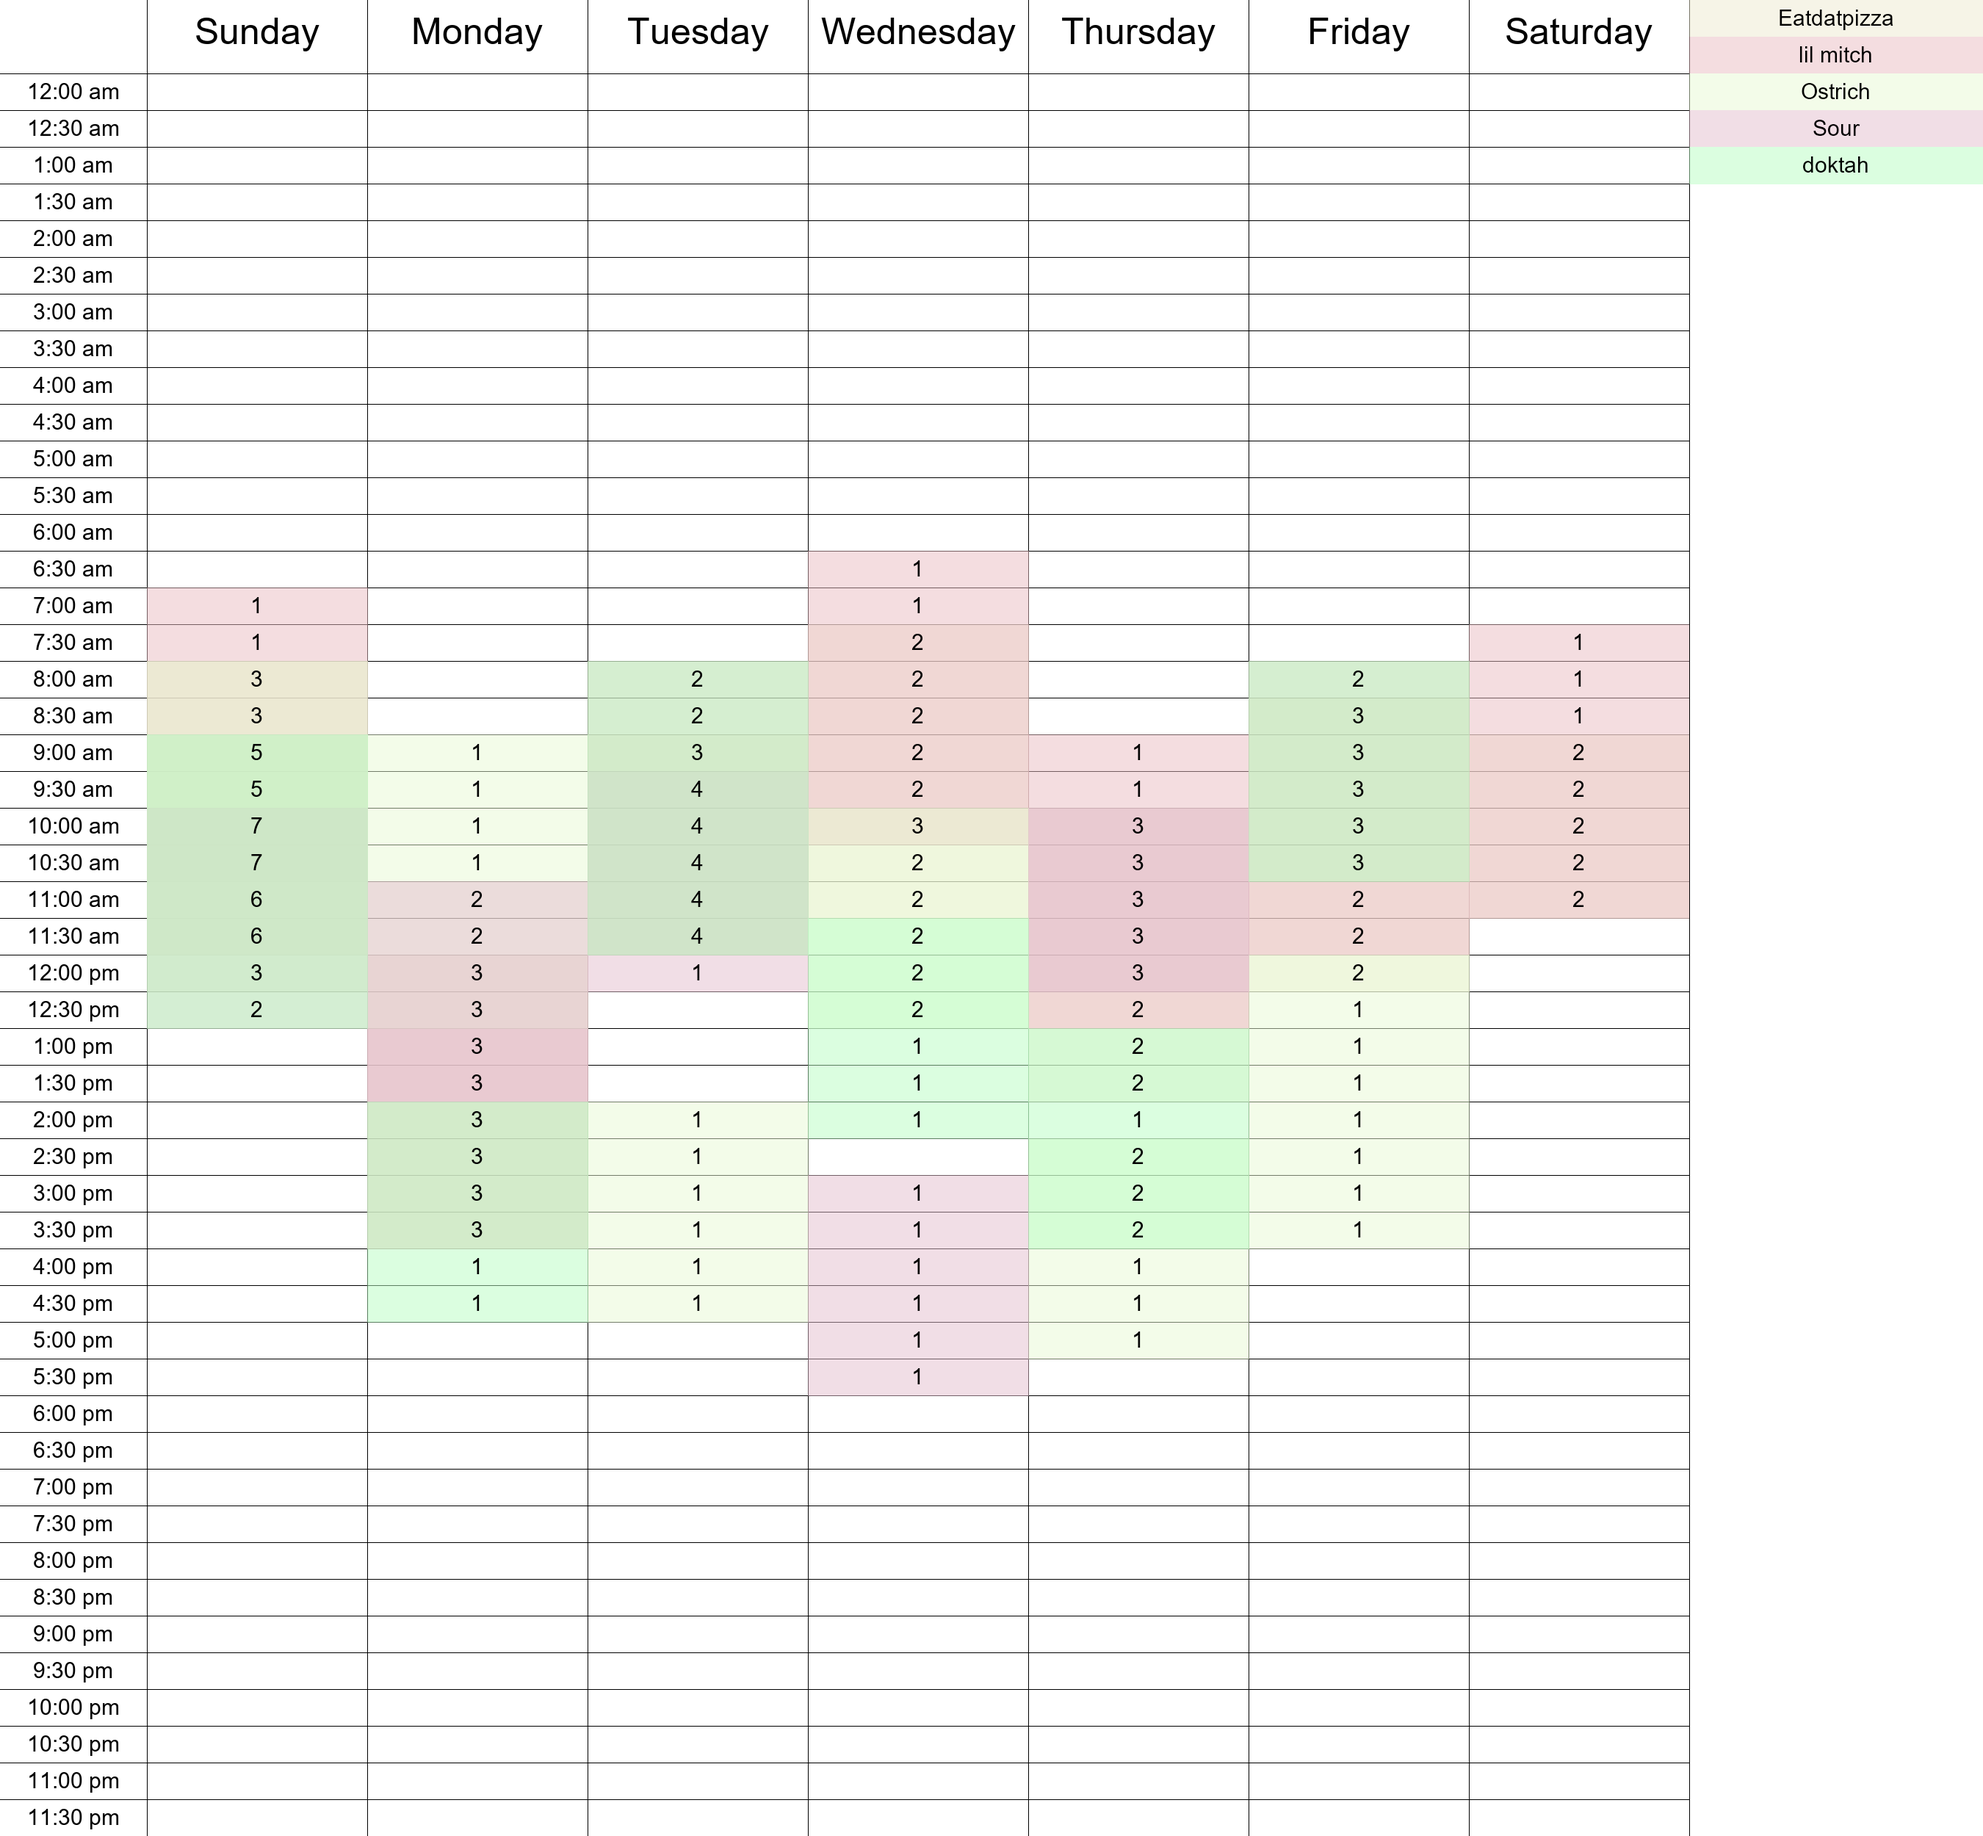
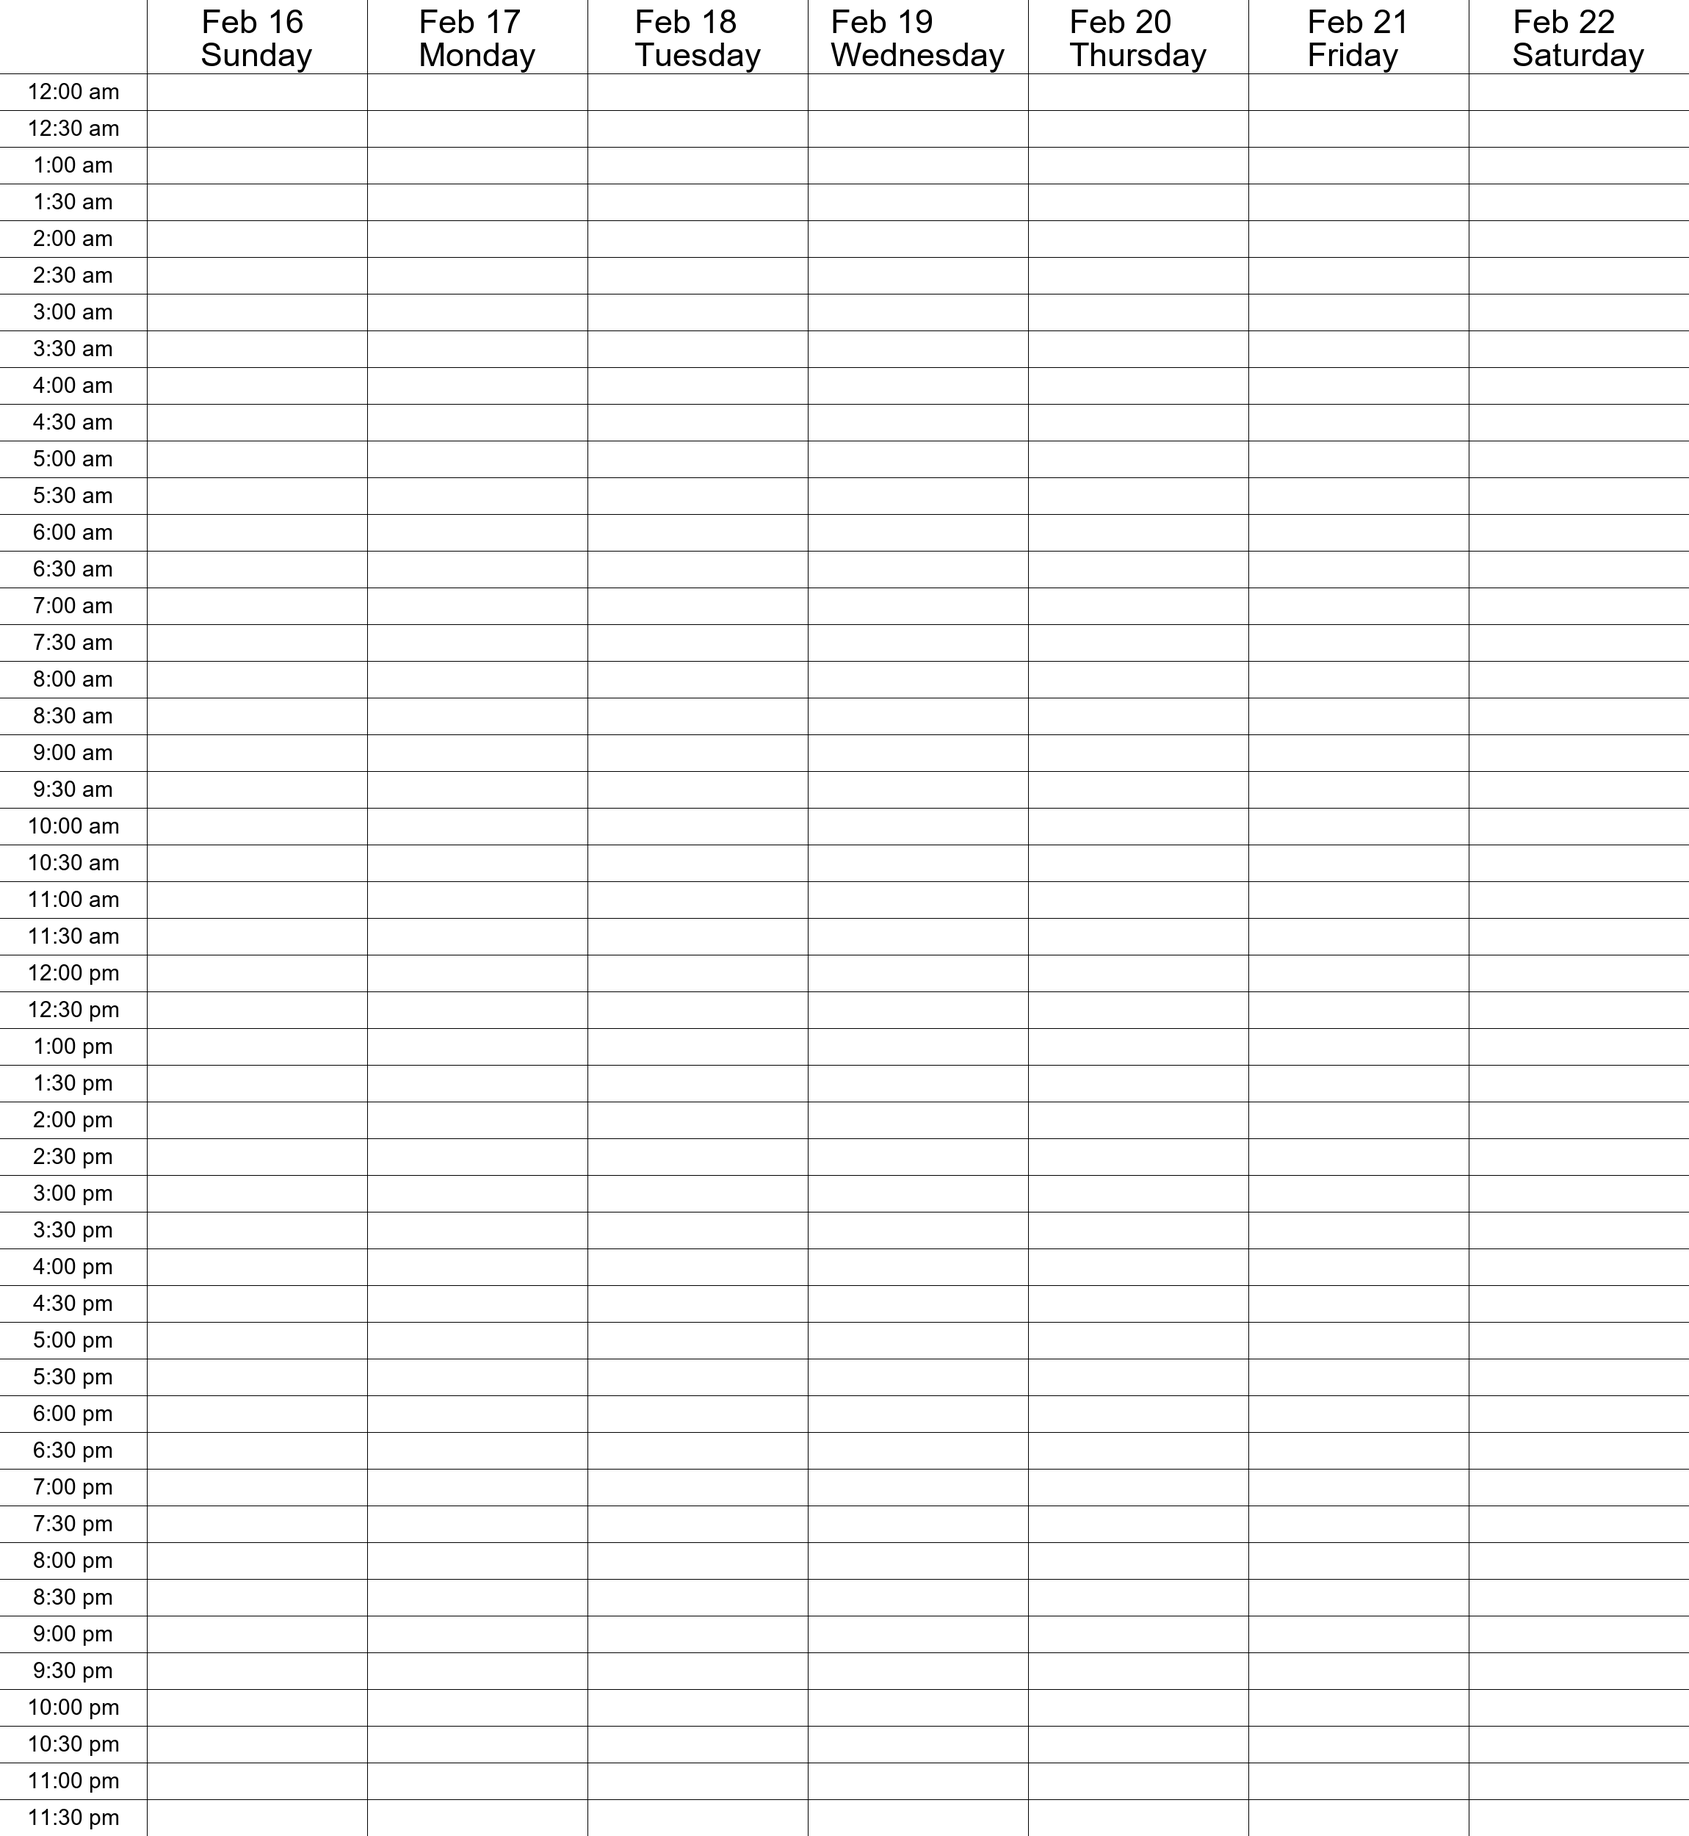
wadaw

diff --git a/CalendarBot/cogs/availabilities.py b/CalendarBot/cogs/availabilities.py
@@ -159,20 +159,28 @@ class Availability(commands.Cog):
 
 
     @app_commands.command(name="get-availability", description="Get availability for a specific user(s)")
-    async def getAvailability(self, interaction: discord.Interaction, user: discord.User):
+    @app_commands.describe(users="Comma-separated list of user IDs")
+    async def getAvailability(self, interaction: discord.Interaction, users: str = None):
         try:
-            week_test = []
-            for result in get_availability(user.id):
-                # result_user_id, availability_date, start_time, end_time, recurring = result
-                # dt_date = datetime.strptime(availability_date, '%Y-%m-%d')
-                # week_test.append(Day(result_user_id, dt_date.strftime('%Y-%m-%d'), start_time, end_time))
-                # print(result)
-                week_test.append(Availability.convert_row_to_day(result))
+            week_data = []
+            if not users:  # if no users are specified, get all availabilities
+                availabilities = get_all_availabilities()
+                for availability in availabilities:
+                    week_data.append(self.convert_row_to_day(availability))
+            else:  # get availabilities for specified users
+                user_ids = [int(user_id.strip()) for user_id in users.split(",")]
+                for user_id in user_ids:
+                    results = get_availability(user_id)
+                    for result in results:
+                        week_data.append(Availability.convert_row_to_day(result))
 
-            today_date = datetime.today()
-            await create_image(self.bot, week_test, int(today_date.strftime("%U")), today_date.year)
+            await create_image(self.bot, week_data)
             with open('generated_images/schedule.png', 'rb') as f:
-                await interaction.response.send_message(f"Availability for <@{user.id}>", file=discord.File(f))
+                if not users:
+                    await interaction.response.send_message("Availability for all users", file=discord.File(f))
+                else:
+                    user_mentions = ", ".join([f"<@{user_id}>" for user_id in user_ids])
+                    await interaction.response.send_message(f"Availability for {user_mentions}", file=discord.File(f))
         except Exception as ex:
             await interaction.response.send_message(f"Something went wrong:\n{ex}")
         
